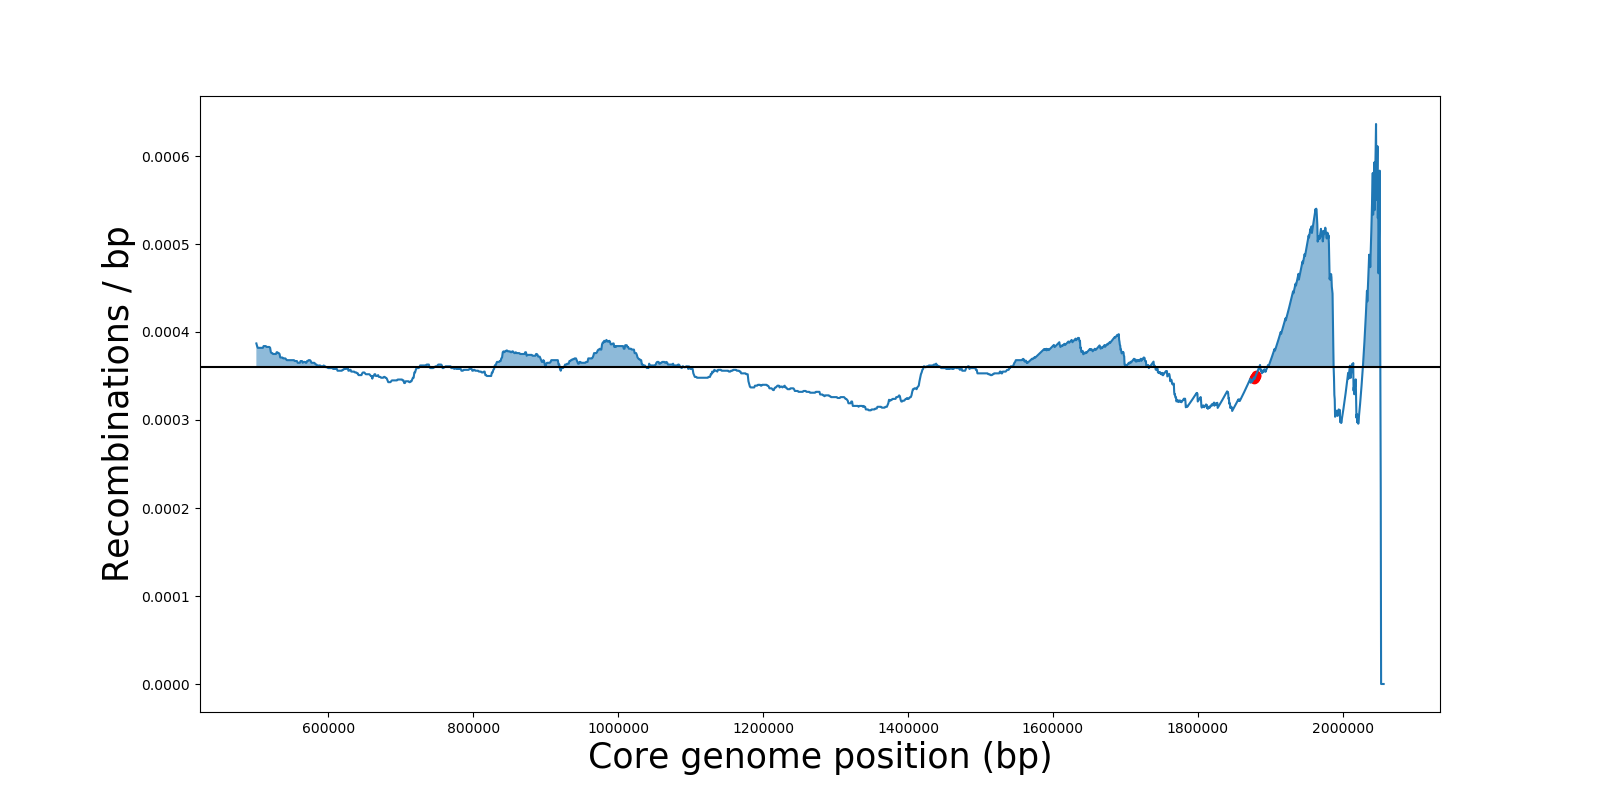
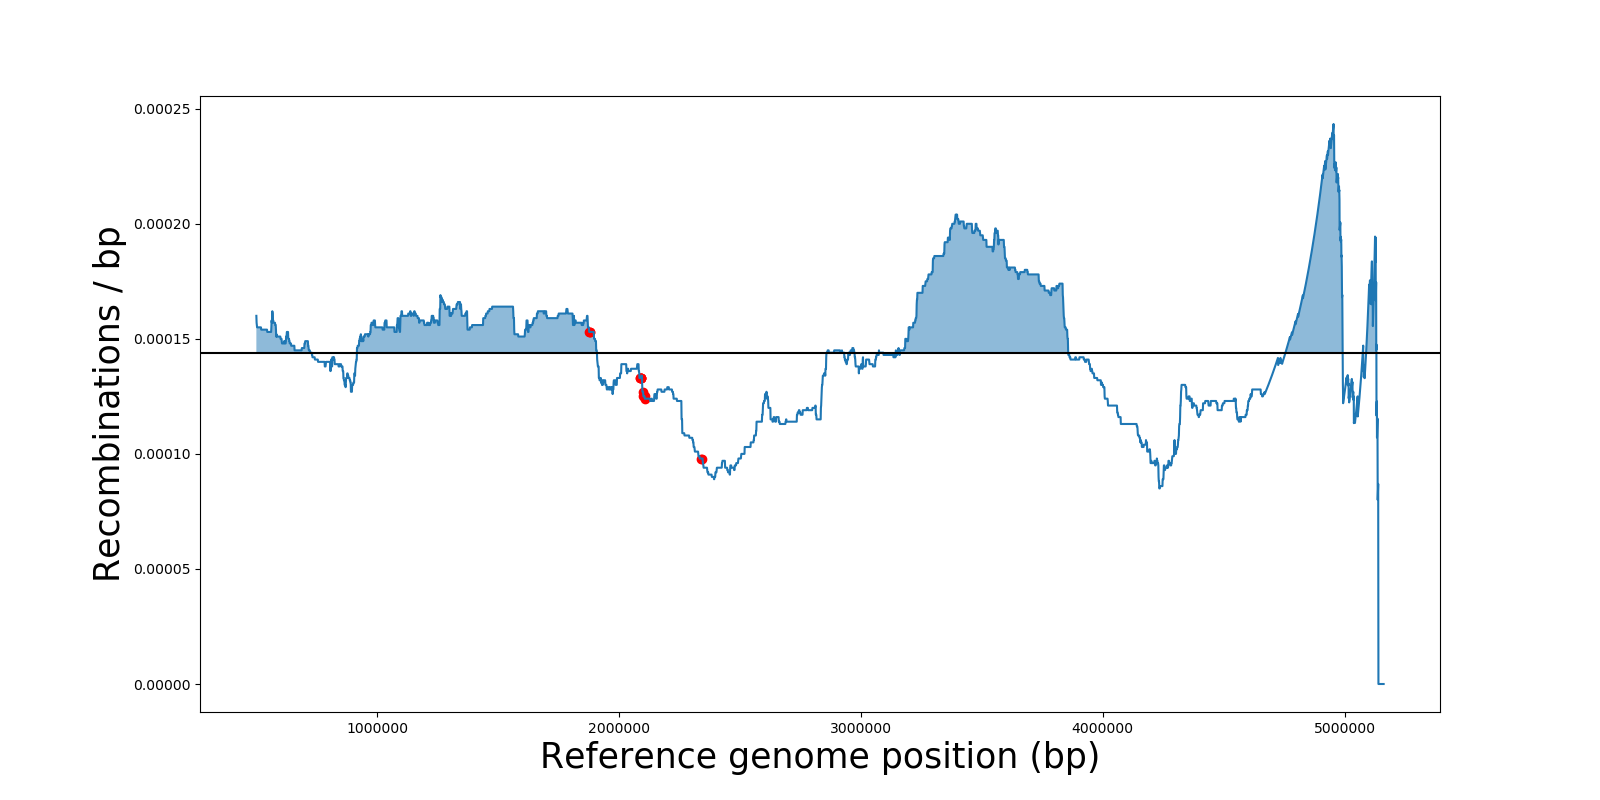
Recombination map bugfix

diff --git a/Scripts/return_high_recombination.py b/Scripts/return_high_recombination.py
@@ -140,7 +140,7 @@ class HighRecombination():
 
         LG = LG.loc[species]
         iLDS = iLDS.loc[iLDS['Species'] == species]
-        iLDS_site_pos = iLDS.get('site_pos')
+        iLDS_site_pos = iLDS.get('SNV position (genome)')
 
         # print(iLDS_site_pos)
 
@@ -150,26 +150,26 @@ class HighRecombination():
         ws = 1000
 
         # sp = LG.index.get_level_values("Reference genome end loc")
-        core_sp_max = LG["Core genome end loc"].max()
-        core_sp_min = LG["Core genome start loc"].min()
-        core_sp = np.arange(core_sp_min, core_sp_max, ws)
+        ref_sp_max = LG["Reference genome end loc"].max()
+        ref_sp_min = LG["Reference genome start loc"].min()
+        ref_sp = np.arange(ref_sp_min, ref_sp_max, ws)
 
         # core_sp
         num_transfers = {}
         # print(core_sp_max)
-        for i in range(len(core_sp)):
-            if i + ws < len(core_sp):
-                n = ((LG["Core genome start loc"] >= core_sp[i])&(LG["Core genome start loc"] < core_sp[int(i+ws)])).sum()
-                num_transfers[(core_sp[int(i)],core_sp[int(i+ws)])] = n
+        for i in range(len(ref_sp)):
+            if i + ws < len(ref_sp):
+                n = ((LG["Reference genome start loc"] >= ref_sp[i])&(LG["Reference genome start loc"] < ref_sp[int(i+ws)])).sum()
+                num_transfers[(ref_sp[int(i)],ref_sp[int(i+ws)])] = n
             else:
-                n = ((LG["Core genome start loc"] >= core_sp[i])&(LG["Core genome start loc"] < core_sp[-1])).sum()
-                num_transfers[(core_sp[int(i)], core_sp[-1])] = n
+                n = ((LG["Reference genome start loc"] >= ref_sp[i])&(LG["Reference genome start loc"] < ref_sp[-1])).sum()
+                num_transfers[(ref_sp[int(i)], ref_sp[-1])] = n
 
         num_transfers = pd.Series(num_transfers)
-        num_transfers.index.names = ["core_start", "core_end"]
+        num_transfers.index.names = ["ref_start", "ref_end"]
         # print(num_transfers)
 
-        midpoints = num_transfers.index.get_level_values("core_start") + (num_transfers.index.get_level_values("core_end") - num_transfers.index.get_level_values("core_start"))/2
+        midpoints = num_transfers.index.get_level_values("ref_start") + (num_transfers.index.get_level_values("ref_end") - num_transfers.index.get_level_values("ref_start"))/2
 
         # Initialize pass_positions with False
         pass_positions = np.full(len(midpoints), False, dtype=bool)
@@ -183,14 +183,16 @@ class HighRecombination():
 
         # Output the pass_positions vector
         # print(pass_positions)
+        # print([i for i, x in enumerate(pass_positions) if x])
+
 
         fix, ax = plt.subplots(figsize=(16, 8))
-        transfer_rate = num_transfers.values / (num_transfers.index.get_level_values("core_end") - num_transfers.index.get_level_values("core_start"))
+        transfer_rate = num_transfers.values / (num_transfers.index.get_level_values("ref_end") - num_transfers.index.get_level_values("ref_start"))
         transfer_rate = pd.Series(transfer_rate, index=num_transfers.index)
 
         ax.plot(midpoints, transfer_rate.values)
         ax.set_ylabel("Recombinations / bp", size=25)
-        ax.set_xlabel("Core genome position (bp)", size=25)
+        ax.set_xlabel("Reference genome position (bp)", size=25)
         ax.axhline(transfer_rate.quantile(percentile), color="k")
         ax.fill_between(midpoints, transfer_rate.quantile(percentile), transfer_rate,
                         where=transfer_rate > transfer_rate.quantile(percentile), alpha=.5)
